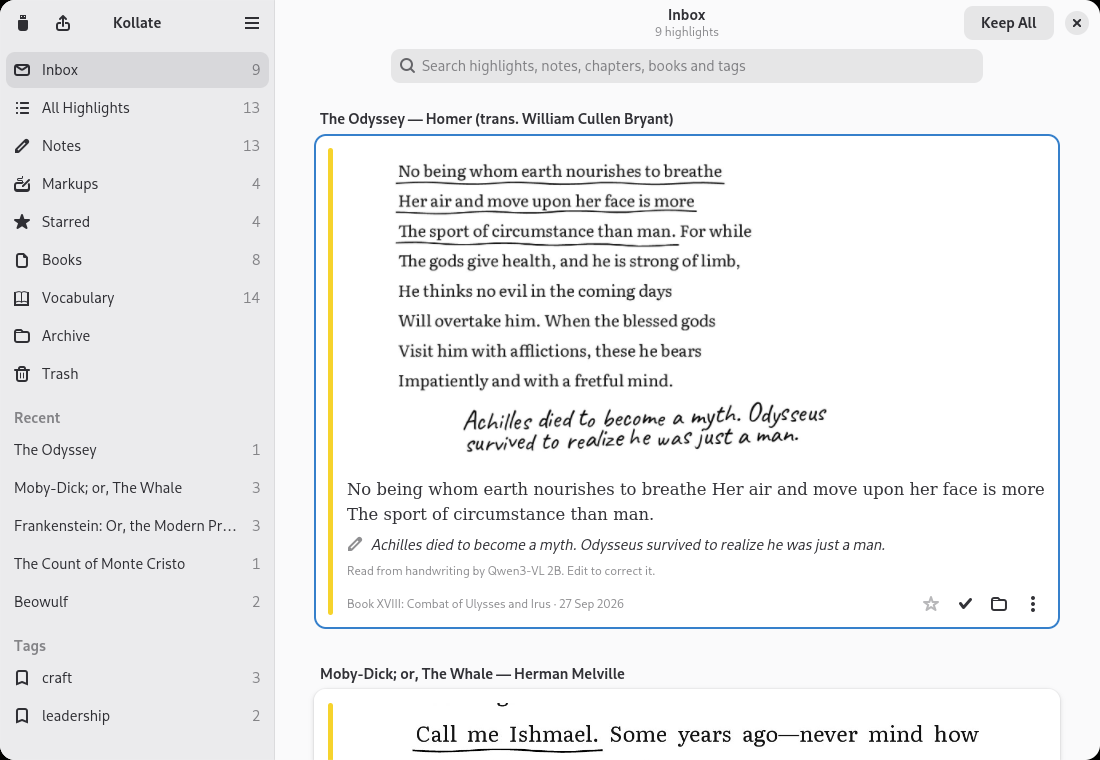
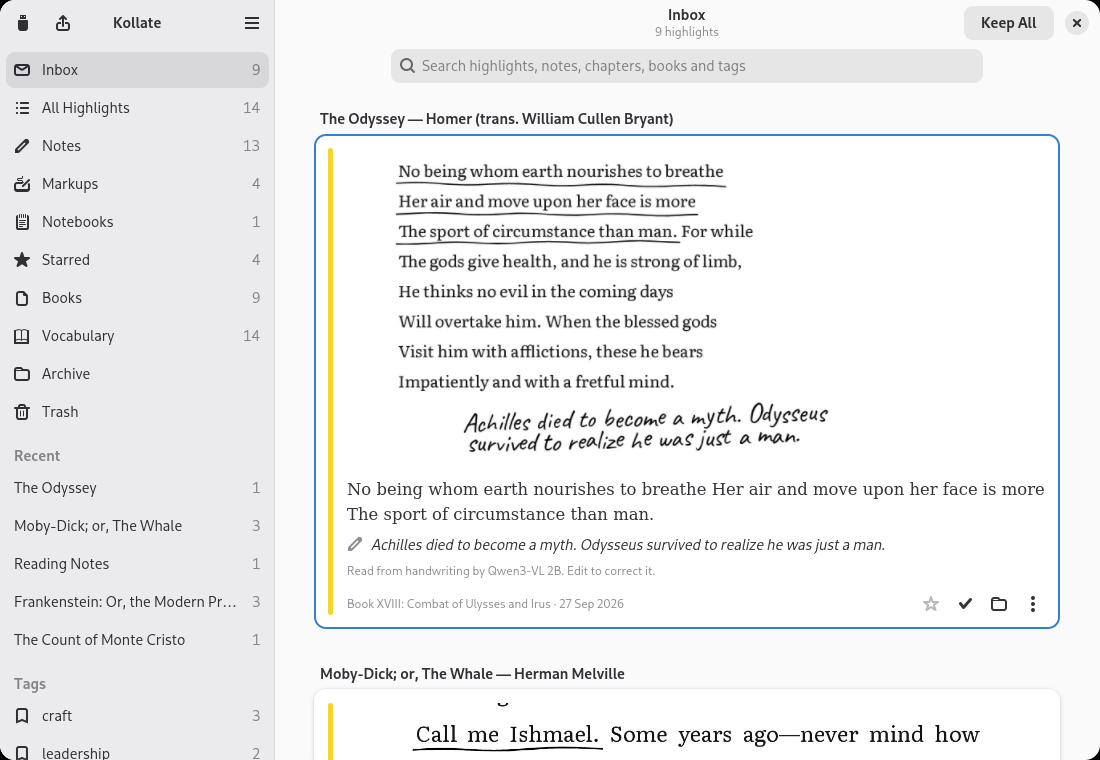
Show notebooks in the screenshots; trim arrowheads from page lines
The demo Kobo now has a Basic notebook of reading notes with a drawing
of the long way from Troy to Ithaca, shown in a new guide image and in
the sidebar and Books page of every screenshot.

An arrowhead touching a label was read into the line ("> Ithaca");
arrow-only words at the start or end of a page's line are dropped. A
notebook page's picture is capped at 560 px, so its text shows below
it in the window.

diff --git a/crates/kollate-core/src/markup/mod.rs b/crates/kollate-core/src/markup/mod.rs
@@ -105,17 +105,25 @@ pub fn transcribe(
 /// Reads a notebook page: its writing line by line, one line per line of
 /// text. Drawings are left out: a piece of one that reaches the model (an
 /// eye, an arrowhead, a box) reads as a stray character or a runaway repeat,
-/// and is dropped.
+/// and is dropped; an arrowhead touching a label is trimmed off it.
 pub fn read_page(svg: &str, reader: &mut dyn Reader) -> Result<Option<String>> {
     let strokes = segment::strokes(svg);
     let mut lines = Vec::new();
     for line in segment::lines(&strokes) {
         let img = image::render_note(svg, &strokes, &line, 16)?;
-        let text = reader
+        let mut words: Vec<String> = reader
             .handwriting(&img)?
             .split_whitespace()
-            .collect::<Vec<_>>()
-            .join(" ");
+            .map(str::to_owned)
+            .collect();
+        let arrow = |w: &String| w.chars().all(|c| "<>-–—→←=".contains(c));
+        while words.first().is_some_and(arrow) {
+            words.remove(0);
+        }
+        while words.last().is_some_and(arrow) {
+            words.pop();
+        }
+        let text = words.join(" ");
         let letters = text.chars().filter(|c| c.is_alphabetic()).count();
         let distinct: std::collections::HashSet<char> = text.chars().collect();
         let runaway = text.chars().count() > 12 && distinct.len() < 4;
@@ -168,7 +176,7 @@ mod tests {
             "<svg width=\"1264\" height=\"1680\" viewBox=\"0 0 1264 1680\"><g>{paths}</g></svg>"
         );
         let mut reader = Scripted {
-            handwriting: vec!["This is  my", "page", "0"],
+            handwriting: vec!["This is  my", "-> page <", "0"],
             print: vec![],
             seen: vec![],
         };

diff --git a/crates/kollate/src/card.rs b/crates/kollate/src/card.rs
@@ -131,7 +131,7 @@ pub fn build(a: &Annotation, in_book_view: bool) -> gtk::Widget {
                 // Sized for a typical card width (~680px) from the crop's
                 // shape, so handwriting stays readable; a whole page is capped
                 // (higher for a notebook page, which is all handwriting).
-                let cap = if page { 720 } else { 320 };
+                let cap = if page { 560 } else { 320 };
                 let height = a.markup_crop.map_or(cap, |c| {
                     (680 * (c.bottom - c.top + 1) / (c.right - c.left + 1)).clamp(160, cap)
                 });

diff --git a/docs/guide.md b/docs/guide.md
@@ -178,6 +178,8 @@ The marked text becomes the markup's text and your handwriting its note, so both
 
 Pages of your Kobo notebooks are read the same way, whole: Kollate finds the lines of writing on the page, reads them one by one, and leaves drawings out (shapes, arrows, doodles; a short label beside them is still read). This works for **Basic** notebooks too, which the Kobo can't turn into text, and needs no **Convert** on the Kobo for Advanced ones.
 
+![A notebook page of reading notes and a drawing of the way from Troy to Ithaca, redrawn from the Kobo's ink, with its writing read as text below it](guide/notebooks.png)
+
 Each notebook appears as a book, with the Kobo's picture of it as its cover, and its pages in the **Notebooks** view. A page's text is its highlight text: search it, edit it with **E**, star, tag and export it like anything else. Pages you add or write more on are read again at the next import; your corrections stay. If a notebook comes from a newer Kobo that stores notebooks differently, Kollate leaves it out and keeps what it already has.
 
 ### Set it up
